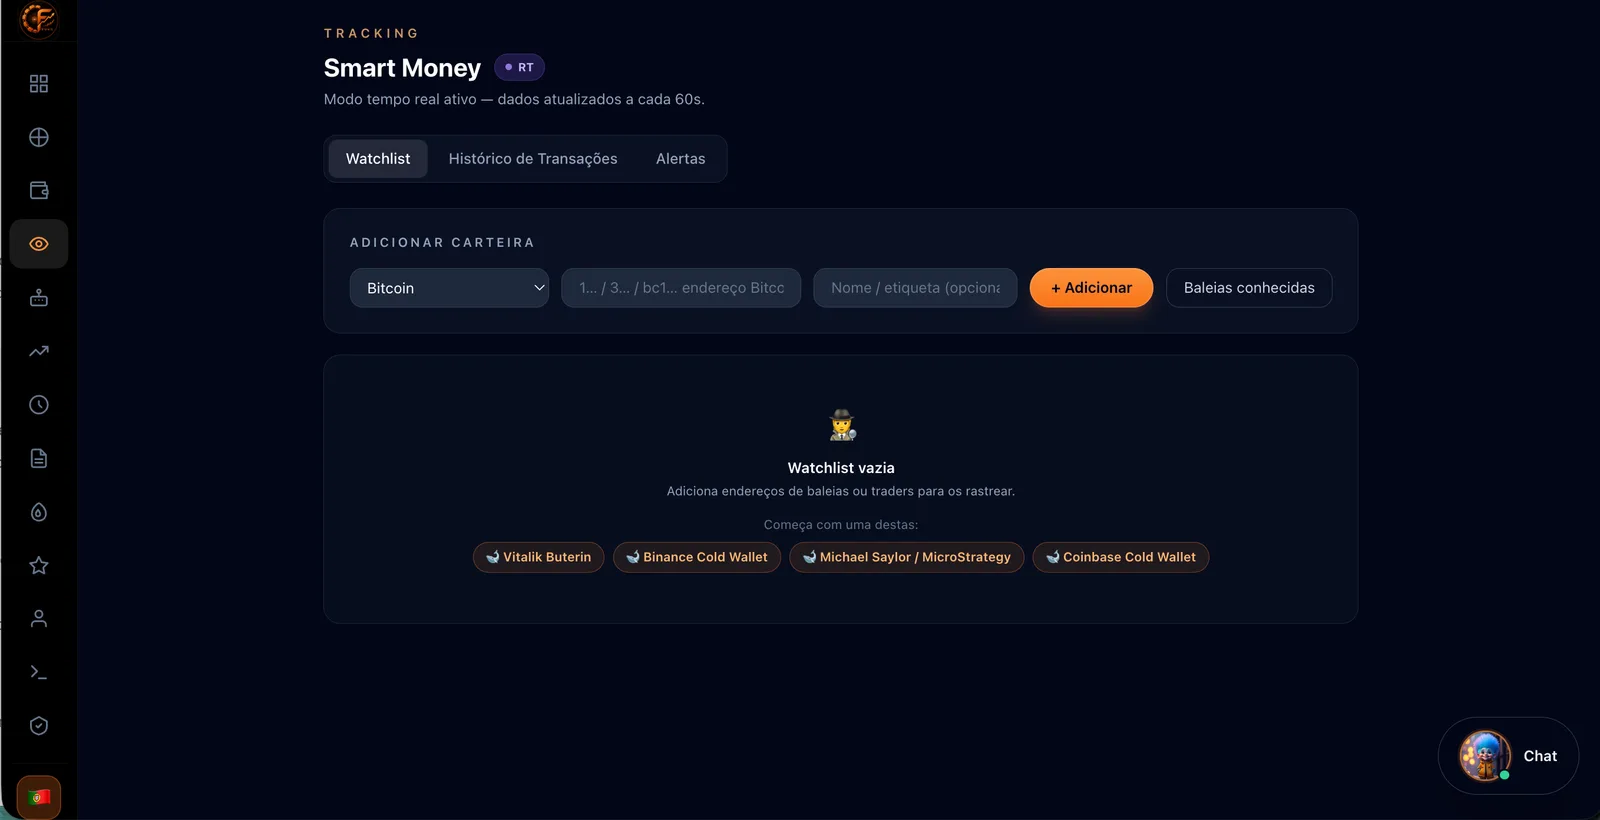
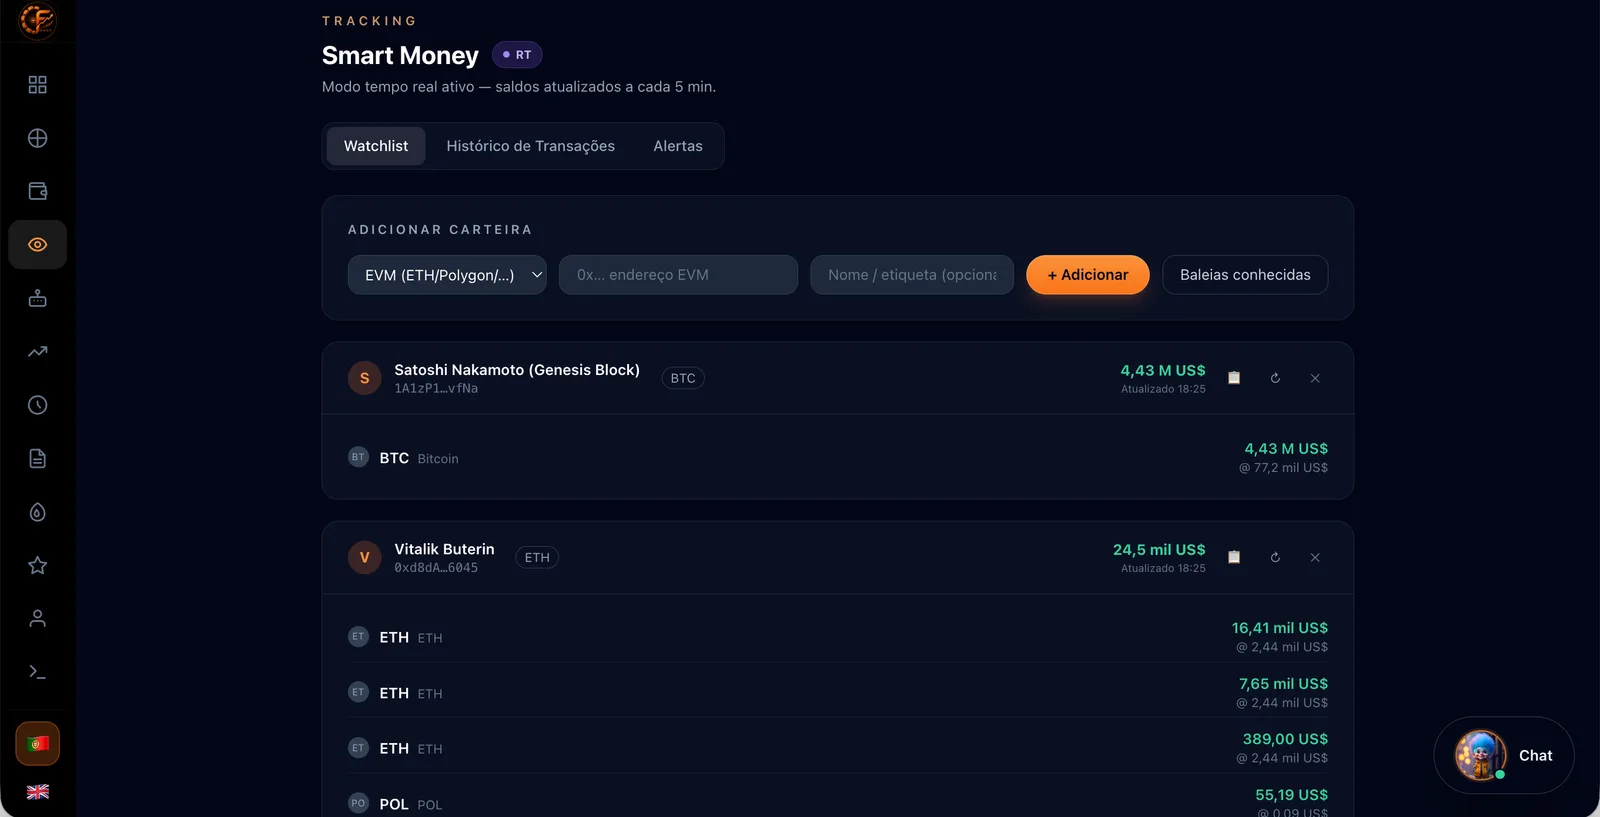
Screenshot do Smart Money atualizado: watchlist com saldos reais em vez de vazia
A imagem antiga mostrava a watchlist VAZIA ("adiciona enderecos de baleias"),
por isso a ferramenta parecia nao fazer nada. A nova (10 set, 18:26) mostra o
Satoshi Nakamoto a 4,43 M US$ em BTC e o Vitalik Buterin a 24,5 mil US$ com
o detalhe por token (ETH e POL da Polygon — prova que le varias redes), o
badge RT e os tres separadores incluindo o Historico de Transacoes.

Estes saldos so aparecem porque a migracao para a Alchemy e a chave do
Etherscan ficaram a funcionar ontem. WebP 1600x817 (34 KB); w/h 820 -> 817.
Original arquivado fora do repositorio publico; README da pasta atualizado.

diff --git a/src/app/como-funciona/page.tsx b/src/app/como-funciona/page.tsx
@@ -28,7 +28,7 @@ const TOOLS: { img: string; w: number; h: number; t: TranslationKey; d: Translat
   { img: "/screenshots/portfolio.webp", w: 1600, h: 821,   t: "cf_t2_t", d: "cf_t2_d", b: ["cf_t2_b1", "cf_t2_b2", "cf_t2_b3"] },
   { img: "/screenshots/wallets.webp", w: 1600, h: 1096,     t: "cf_t3_t", d: "cf_t3_d", b: ["cf_t3_b1", "cf_t3_b2", "cf_t3_b3"] },
   { img: "/screenshots/market.webp", w: 1600, h: 827,      t: "cf_t4_t", d: "cf_t4_d", b: ["cf_t4_b1", "cf_t4_b2", "cf_t4_b3"] },
-  { img: "/screenshots/smart-money.webp", w: 1600, h: 820, t: "cf_t7_t", d: "cf_t7_d", b: ["cf_t7_b1", "cf_t7_b2", "cf_t7_b3"] },
+  { img: "/screenshots/smart-money.webp", w: 1600, h: 817, t: "cf_t7_t", d: "cf_t7_d", b: ["cf_t7_b1", "cf_t7_b2", "cf_t7_b3"] },
   { img: "/screenshots/fiscalidade.webp", w: 1600, h: 836, t: "cf_t5_t", d: "cf_t5_d", b: ["cf_t5_b1", "cf_t5_b2", "cf_t5_b3"] },
   { img: "/screenshots/fire.webp", w: 1600, h: 899,        t: "cf_t8_t", d: "cf_t8_d", b: ["cf_t8_b1", "cf_t8_b2", "cf_t8_b3"] },
   { img: "/screenshots/historico.webp", w: 1600, h: 813,   t: "cf_t9_t", d: "cf_t9_d", b: ["cf_t9_b1", "cf_t9_b2", "cf_t9_b3"] },
